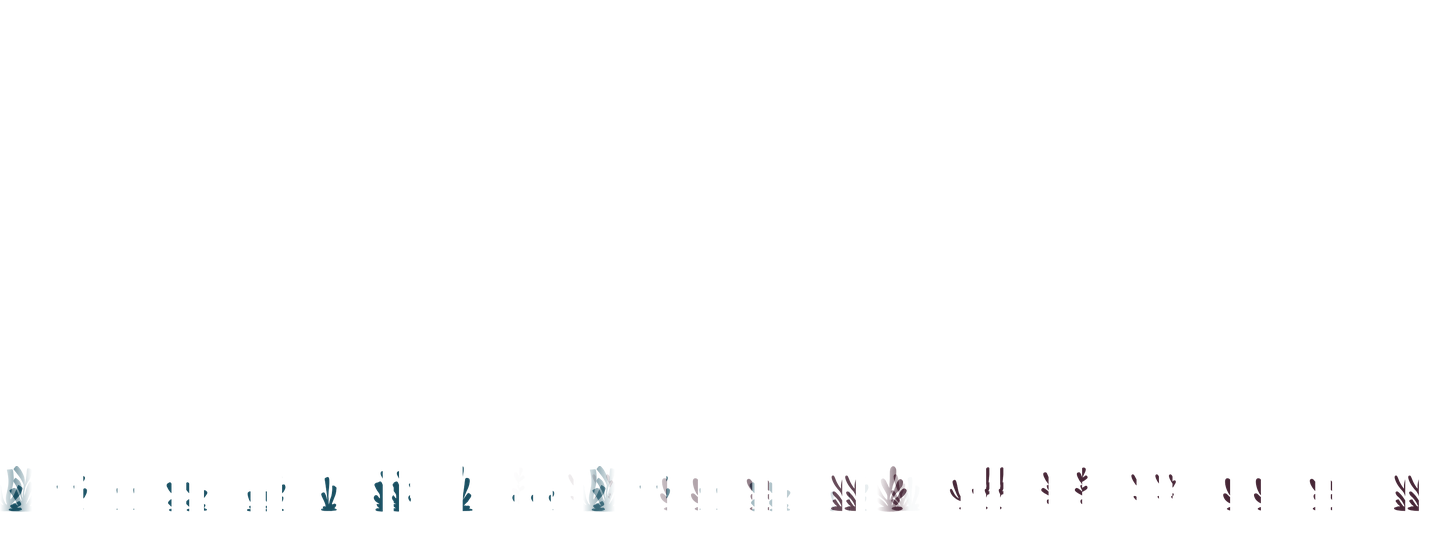
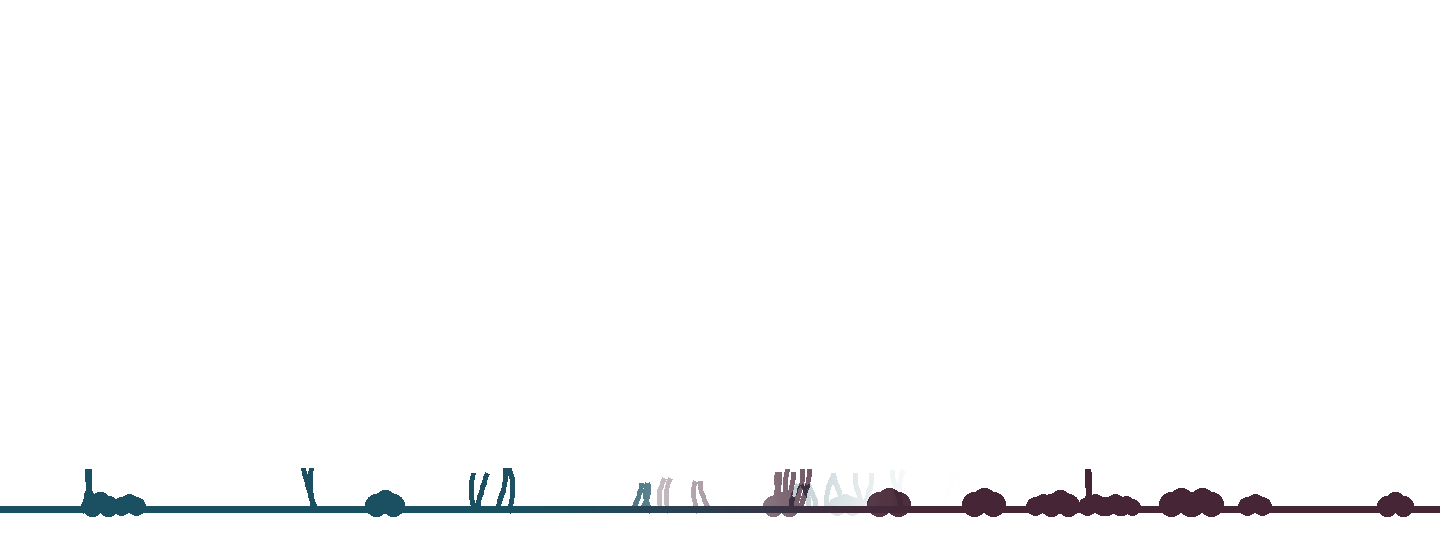
美術:世界 3 近景海草改程式畫(原本碎裂浮空),文件補已知問題與字型保留名稱

Changed region(s): [[0.0, 0.8593, 1.0, 0.9778]]

diff --git a/docs/art/tools/process_world3.py b/docs/art/tools/process_world3.py
@@ -1,11 +1,12 @@
 """世界 3「亞特蘭提斯海底王國」：魔物、睡著版、關主三階段、4 個場景背景與過渡圖。
 
 用法：C:/ai-studio/ComfyUI_windows_portable/python_embeded/python.exe -I docs/art/tools/process_world3.py <ComfyUI output 資料夾> <專案根目錄>
+近景海草（s1–s3）改用程式畫：AI 畫的海草太稀疏，處理後會碎掉。
 注意：來源圖（ComfyUI 輸出的 gk7、gk8）只在美術的電腦上，沒有放進 repo。
 """
 import os, sys
 sys.path.insert(0, os.path.dirname(os.path.abspath(__file__)))
-from artlib import cutout, fit, far, mid_from, near_from, seabed, transition, save
+from artlib import cutout, fit, far, mid_from, seabed, seaweed, transition, save
 
 OUT_DIR, ROOT = sys.argv[1], sys.argv[2]
 G7, G8 = os.path.join(OUT_DIR, "gk7"), os.path.join(OUT_DIR, "gk8")
@@ -31,11 +32,11 @@ for name, (base, src), box in SPRITES:
 B = lambda name: A("backgrounds", name)
 SCENES = {
     "w3-s1": (far(os.path.join(G7, "w3bg/w3s1-far_00002_.png")), mid_from(os.path.join(G7, "w3bg/w3s1-mid_00002_.png"), (40, 110, 130)),
-              near_from(os.path.join(G7, "w3bg/w3s1-near_00002_.png"), (26, 80, 98))),
+              seaweed((26, 80, 98), seed=1)),
     "w3-s2": (far(os.path.join(G8, "w3bg2/w3s2-far_00004_.png")), mid_from(os.path.join(G7, "w3bg/w3s2-mid_00002_.png"), (96, 52, 70)),
-              near_from(os.path.join(G7, "w3bg/w3s1-near_00003_.png"), (70, 38, 54))),
+              seaweed((70, 38, 54), seed=2, kelp=8, coral=14)),
     "w3-s3": (far(os.path.join(G7, "w3bg/w3s3-far_00001_.png")), mid_from(os.path.join(G7, "w3bg/w3s3-mid_00002_.png"), (22, 30, 78)),
-              near_from(os.path.join(G7, "w3bg/w3s1-near_00001_.png"), (14, 20, 56))),
+              seaweed((14, 20, 56), seed=3, kelp=20, coral=4)),
     "w3-s4": (far(os.path.join(G8, "w3bg2/w3s4-far_00001_.png"), darken=(0.45, (20, 16, 60))), mid_from(os.path.join(G7, "w3bg/w3s4-mid_00002_.png"), (18, 14, 50)),
               seabed((12, 10, 36), phase=1.7, rocks=((260, 10), (780, 8), (1200, 12)))),
 }

diff --git a/docs/art/tools/artlib.py b/docs/art/tools/artlib.py
@@ -110,3 +110,20 @@ def transition(a, b, W=1440, blend=480):
 
 def save(im, path):
     os.makedirs(os.path.dirname(path), exist_ok=True); im.save(path, optimize=True)
+
+def seaweed(color, W=1440, seed=0, kelp=14, coral=8, bottom=512):
+    """近景海草（程式畫）：彎曲的海帶葉片＋圓圓的珊瑚，底部貼齊 y=bottom，左右兩端留空可接續。"""
+    import random
+    rnd = random.Random(seed); im = Image.new("RGBA", (W, H), (0, 0, 0, 0)); d = ImageDraw.Draw(im); c = color + (255,)
+    d.rectangle((0, bottom - 6, W, bottom), fill=c)  # 一條低矮的海床
+    for _ in range(kelp):
+        x0 = rnd.randint(40, W - 40); hgt = rnd.randint(26, 44); n = rnd.randint(2, 3)
+        for k in range(n):
+            ph = rnd.random() * 6; xs = x0 + (k - n / 2) * 7
+            pts = [(xs + 5 * math.sin(ph + t / 3), bottom - hgt * t / 8) for t in range(9)]
+            d.line(pts, fill=c, width=5, joint="curve")
+    for _ in range(coral):
+        x0 = rnd.randint(40, W - 40); r = rnd.randint(7, 12)
+        for dx, dy in ((0, 0), (-r * .8, r * .4), (r * .8, r * .4)):
+            d.ellipse((x0 + dx - r, bottom - 2 * r + dy, x0 + dx + r, bottom + dy), fill=c)
+    return im

diff --git a/docs/art/ui.md b/docs/art/ui.md
@@ -1,6 +1,6 @@
 # 封面與主頁（給程式那邊接）
 
-2026-10-22 第一版。字型：jf open 粉圓（`public/assets/fonts/jf-openhuninn-2.1.ttf`，SIL OFL 1.1，可商用、可隨遊戲散布；**散布時要附 `jf-openhuninn-LICENSE.txt`**；不能單獨販售字型）。
+2026-10-22 第一版。字型：jf open 粉圓（`public/assets/fonts/jf-openhuninn-2.1.ttf`，SIL OFL 1.1，可商用、可隨遊戲散布；**散布時要附 `jf-openhuninn-LICENSE.txt`**；不能單獨販售字型）。字型的漢字部分源自 Kosugi Maru（Apache-2.0），官方 release 只附 OFL 授權檔；保險起見散布時也可以附一份 Apache-2.0 全文。
 
 | 檔案 | 內容 |
 |---|---|
@@ -14,4 +14,4 @@
 | `docs/art/ui/main-menu-mockup.png` | 主頁排版示意圖（只是參考） |
 
 - 主頁有哪些按鈕由程式那邊決定，缺的按鈕文字可以請美術重跑 `docs/art/tools/make_ui.py`。
-- 字型 4.9 MB：如果網頁執行時要用，建議子集化（只留用到的字）並轉 woff2；子集化後依 OFL 規定要改字型名稱（不能叫 open huninn / huninn），並仍附授權檔。
+- 字型 4.9 MB：如果網頁執行時要用，建議子集化（只留用到的字）並轉 woff2；子集化後依 OFL 規定要改字型名稱（不能使用授權檔保留的名稱：open huninn、huninn、Varela、Varela Round），並仍附授權檔。

diff --git a/docs/art/world3-assets.md b/docs/art/world3-assets.md
@@ -34,4 +34,6 @@
 - 小丑魚、水怪、河豚腳下畫了一圈水面／水窪，放在海底有點怪，之後可再修。
 - 咖啡章魚睡著版眼睛只有半閉；水怪第三階段跟第一階段差別小，程式可以加變色或抖動。
 - 深夜神殿的遠景是把較亮的圖用程式壓暗的，比較暗、細節少。
-- 深夜場景的近景（海床）是程式畫的。
+- 四個場景的近景（海草、海床）都是程式畫的，比較簡單。
+- 白天珊瑚礁和晚上遺跡的遠景，看起來有點像「海面上」而不是海底。
+- 晚上遺跡中景兩根柱子中間有一個雕像剪影，看起來像人影。
